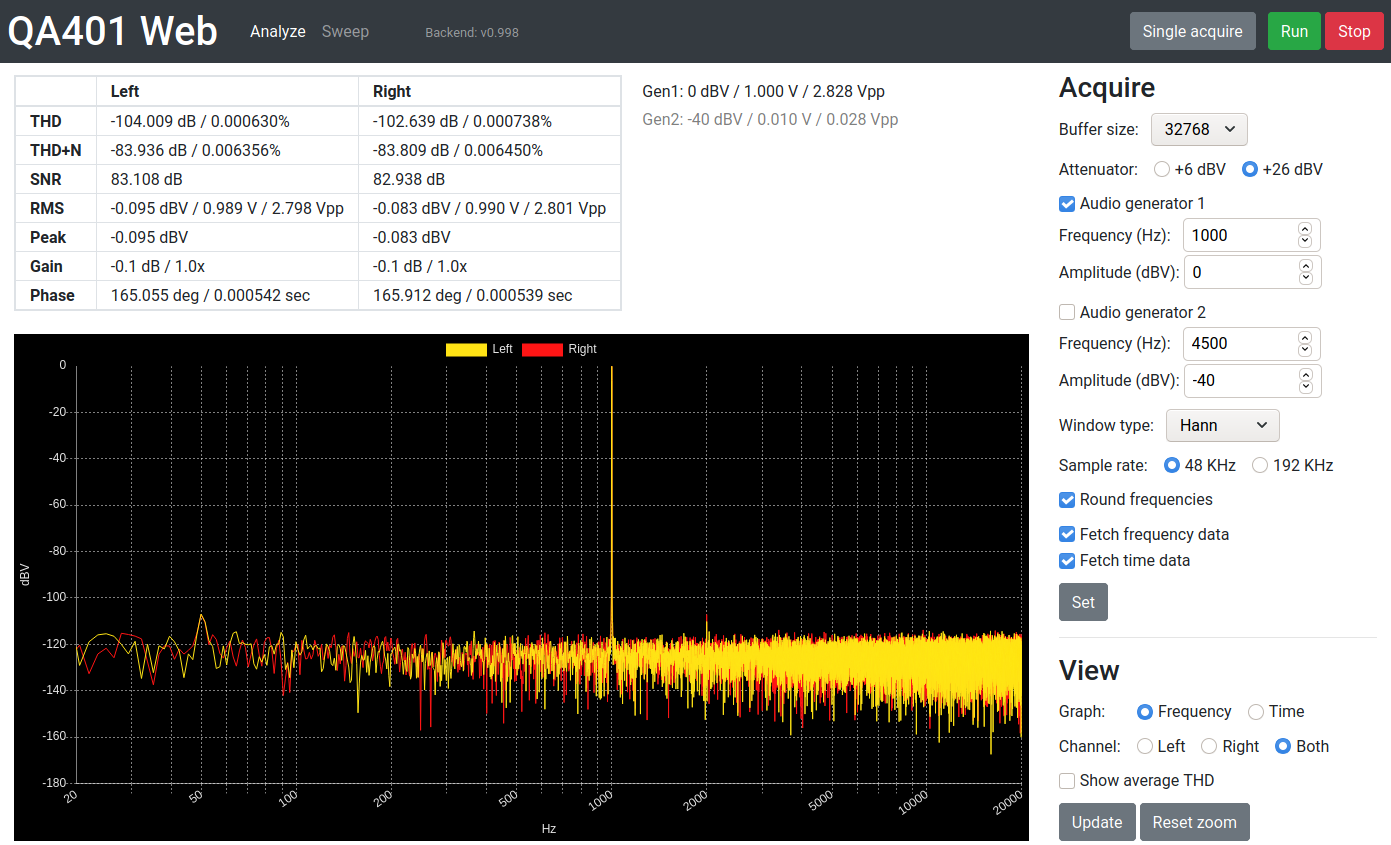
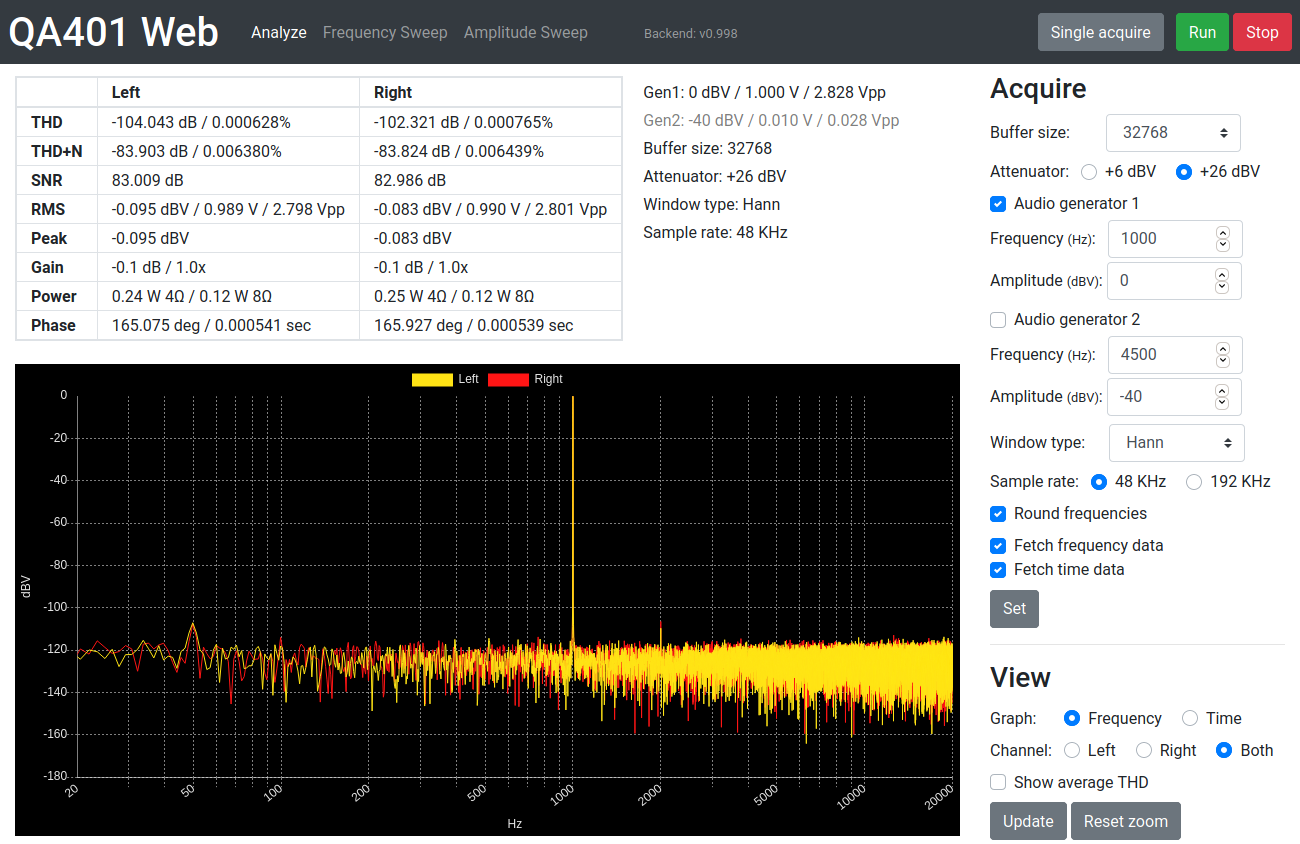
Update readme with new screenshots and functionality

diff --git a/README.md b/README.md
@@ -1,6 +1,6 @@
 # QA401 Web
 
-Simple (unofficial) web interface for usage with the [QA401H](https://github.com/QuantAsylum/QA401H) REST API for the [QA401 Audio Analyzer](https://quantasylum.com/products/qa401-audio-analyzer). This allows a visual interface on Linux.
+Simple (unofficial) web interface for usage with the [QA401H](https://github.com/QuantAsylum/QA401H) REST API for the [QA401 Audio Analyzer](https://quantasylum.com/products/qa401-audio-analyzer). This allows a visual interface on Linux and macOS.
 
 
 ## Features
@@ -24,11 +24,21 @@ Analyze acquisitions over a frequency range of 20Hz to 20KHz using static settin
 ![Screenshot of time series analysis](img/qa401w-analyze-time.png)
 
 
-### Sweep mode
+### Frequency sweep mode
 
 Run frequency sweeps and record data at predefined steps along the way.
 
-![Screenshot of sweep mode](img/qa401w-sweep-frequency.png)
+![Screenshot of frequency sweep mode](img/qa401w-sweep-frequency.png)
+
+* Choose one graph to follow in real time while sweep runs.
+* Switch between the different graphs after sweep is finished to view recorded results.
+
+
+### Amplitude sweep mode
+
+Run amplitude sweeps and record data at defined steps along the way.
+
+![Screenshot of amplitude sweep mode](img/qa401w-sweep-amplitude.png)
 
 * Choose one graph to follow in real time while sweep runs.
 * Switch between the different graphs after sweep is finished to view recorded results.
